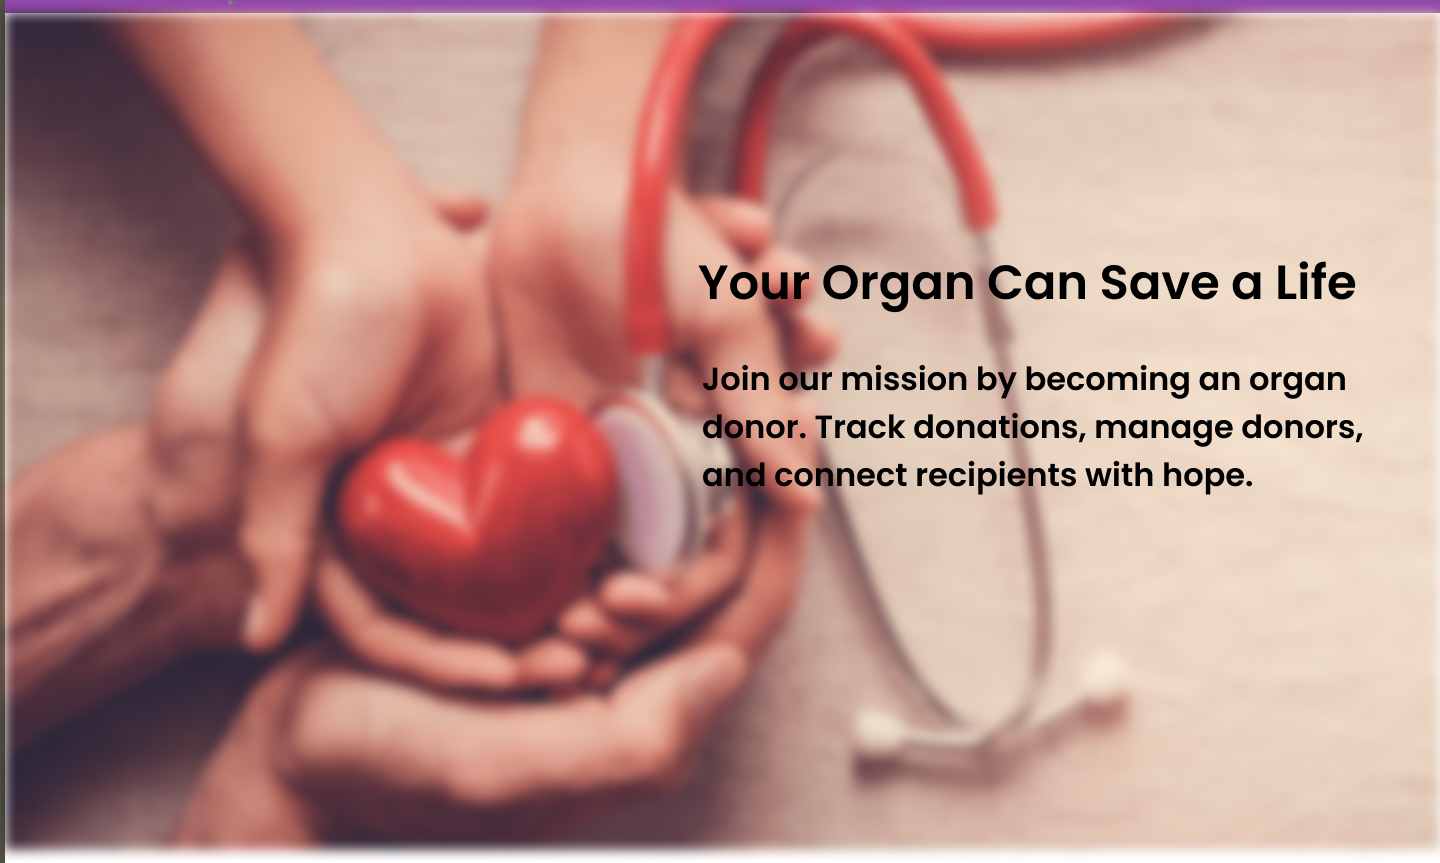
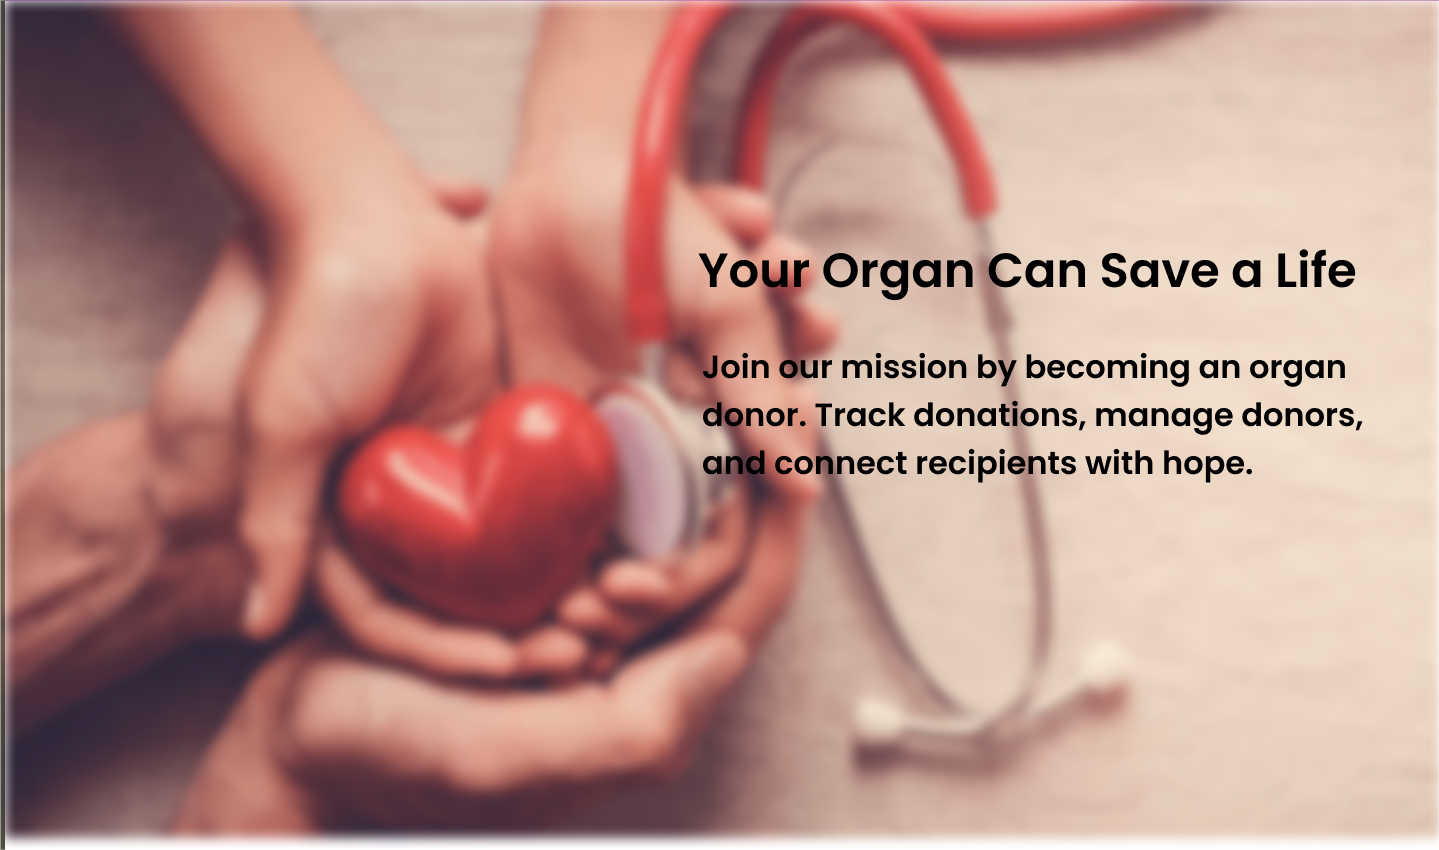
update home page

diff --git a/src/css/Home.css b/src/css/Home.css
@@ -1,6 +1,24 @@
+/* 1. Global Box-Sizing (වඩා හොඳ Layout පාලනයක් සඳහා) */
+*, *::before, *::after {
+    box-sizing: border-box;
+}
+
+/* 2. Horizontal Overflow ඉවත් කිරීම (Vertical Scrollbar එක තබාගෙන) */
+body, html {
+    overflow-x: hidden;
+}
+
+/* Images වලට Global style එකක් එකතු කරන්න */
+img {
+    max-width: 100%; 
+    height: auto;
+    margin: 0;
+}
+
 /* Reusable helpers */
 .container {
-    max-width: 1100px;
+    /* පළල 958.4px ට ආසන්නව සකස් කළා */
+    max-width: 960px; 
     margin: 0 auto;
     padding: 0 20px;
 }
@@ -17,12 +35,26 @@
 .hero-section {
     position: relative;
     padding: 20px 0 10px;
+    width: 100%;
+    min-height: 520px; /* Image එකට ඉඩ දීමට ප්රමාණවත් උසක් දෙන්න */
+    overflow: hidden; 
+}
+
+/* Hero Background Image (banner.png) */
+.hero-bg-img {
+    position: absolute;
+    top: 0;
+    left: 0;
+    width: 100%; 
+    height: 100%;
+    object-fit: cover; 
+    z-index: 1;
 }
 
 .hero-content {
     position: relative;
     z-index: 2;
-    display: flex; 
+    display: flex;	
     gap: 24px;
     align-items: center;
     padding-top: 36px;
@@ -33,8 +65,8 @@
     max-width: 640px;
     color: #fff;
     padding: 24px;
-    background: rgba(255,255,255,0.02); 
-    margin-left: 6%;
+    background: rgba(255,255,255,0.02);	
+    margin-left: 0; 
 }
 .hero-left h1 {
     font-size: 32px;
@@ -82,19 +114,34 @@
 }
 
 /* ABOUT SECTION */
+.about-section {
+    display: flex; 
+    gap: 30px;
+    align-items: center;
+    padding: 40px 0;
+}
+.about-left {
+    flex: 1; 
+}
 
+/* About Image (bannertwo.png) */
+.about-image {
+    width: 100%;
+    height: auto;
+    display: block;
+}
 
 .about-right {
-    background-color: rgba(255, 255, 255, 0.9); 
+    background-color: rgba(255, 255, 255, 0.9);	
     padding: 30px;
     border-radius: 8px;
     box-shadow: 0 4px 10px rgba(0, 0, 0, 0.1);
-    max-width: 450px; 
+    max-width: 450px;	
     margin-left: 5%;
 }
 
 .about-right h2 {
-    color: #5d4287; 
+    color: #5d4287;	
 }
 
 /* SERVICES */
@@ -122,9 +169,13 @@
     .hero-content { flex-direction:column; padding-top:12px; }
     .hero-left { margin:0; padding: 16px; }
     .hero-bg { height:240px }
-    .about-section{ 
+    .about-section{	
         flex-direction: column;
+        gap: 15px; 
         align-items: flex-start;
+    }
+    .about-left {
+        max-width: 100%;
     }
     .about-right {
         margin-left: 0;
